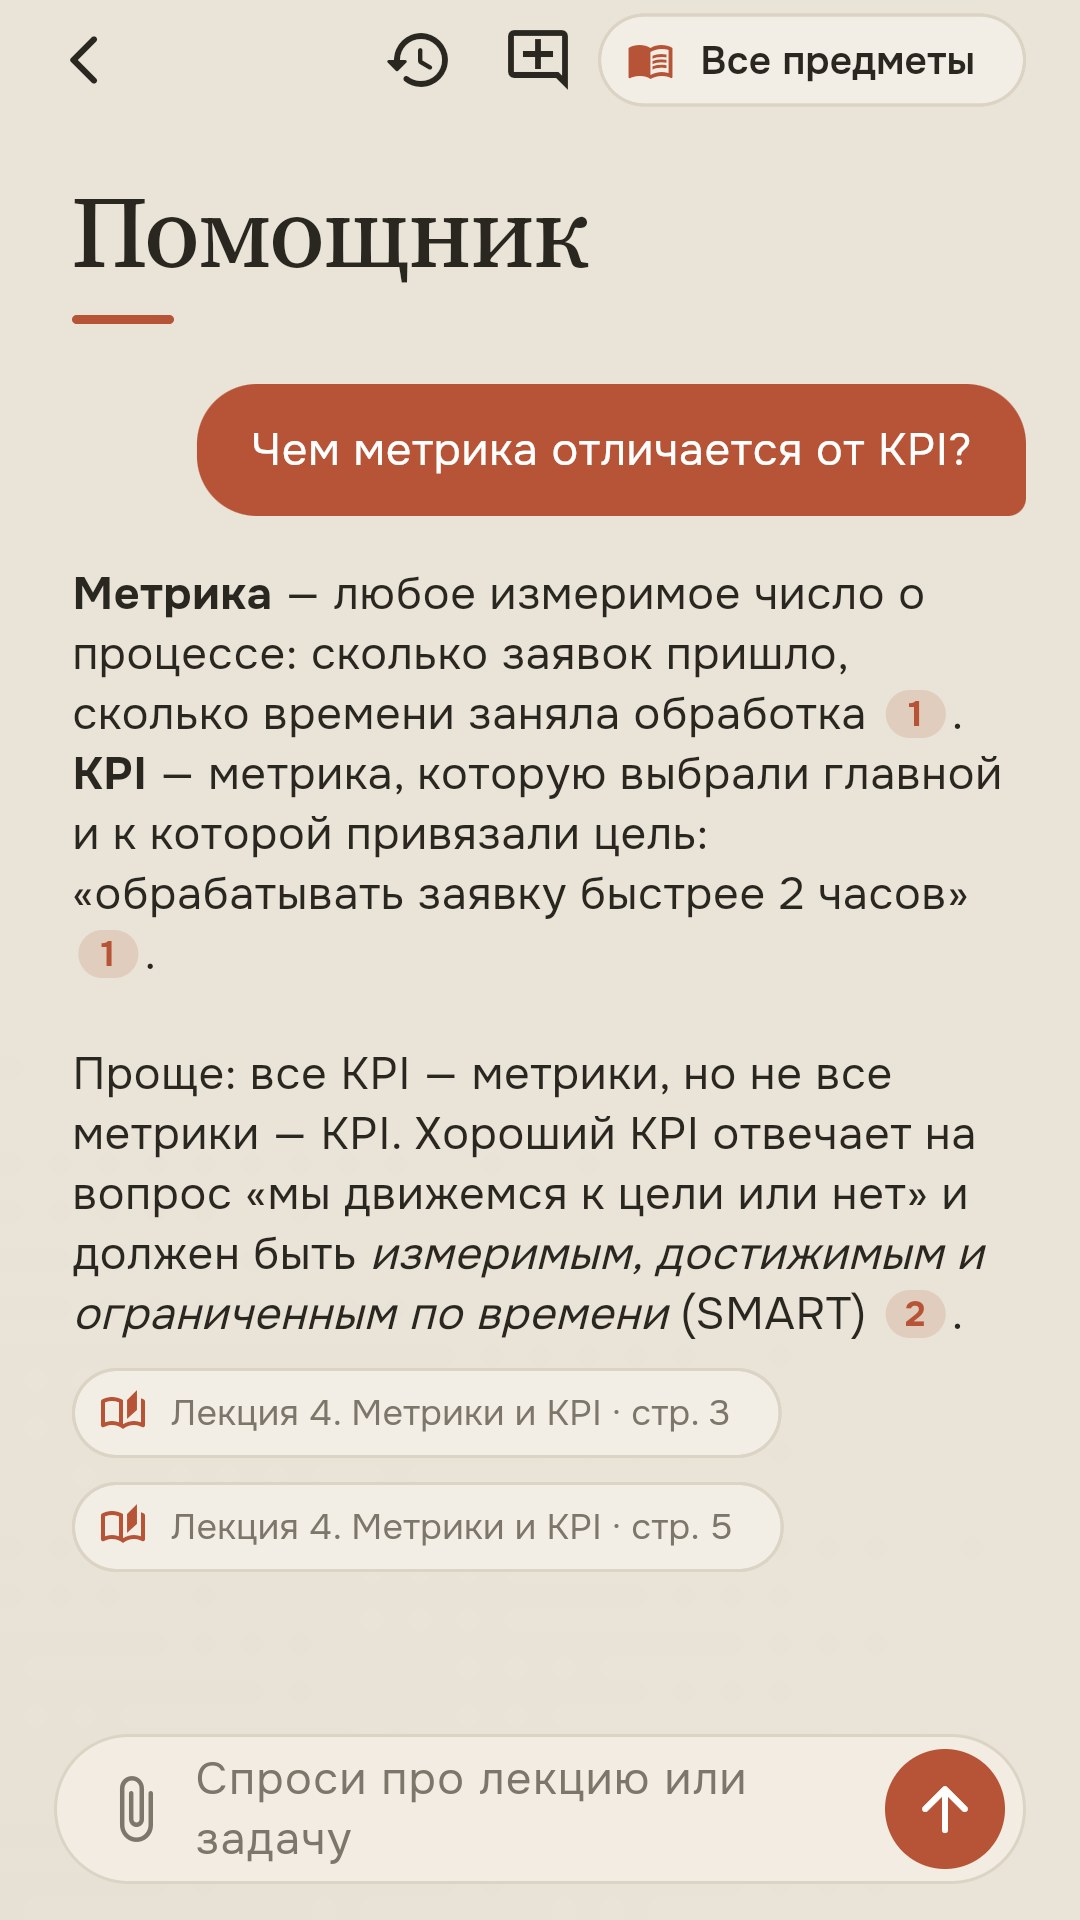
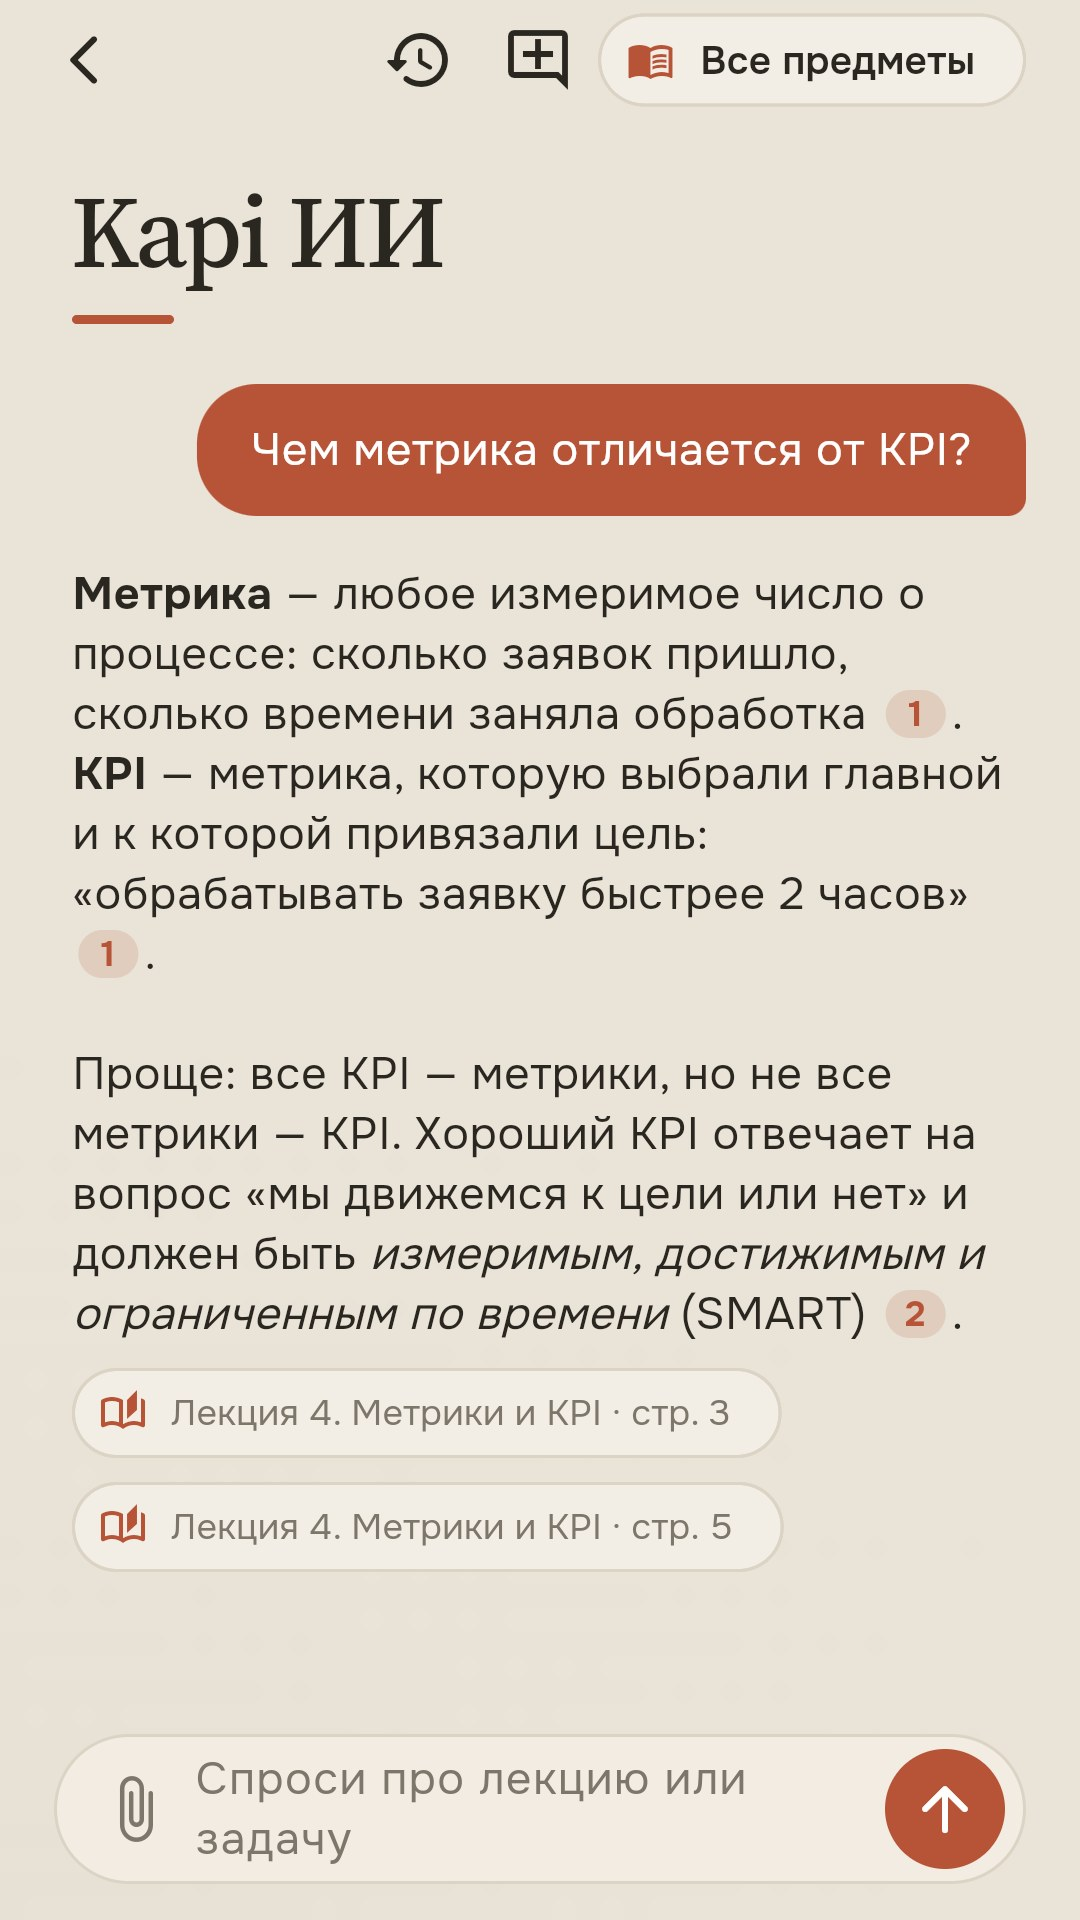
v5.114.8 «Дягилев»: скрины RuStore с «Kapi ИИ» и шаги консоли RuStore

Changed region(s): [[0.0917, 0.0938, 0.55, 0.1562]]

diff --git a/tools/changelog.py b/tools/changelog.py
@@ -38,6 +38,7 @@ OWNER_NAMES = ["Маркет-Гарден"]
 # Деятели Российской империи и СССР (владелец, 07.10: «названия ставь сам, но
 # чтобы хоть как-то соответствовали сделанному»): имя → под какую версию.
 FIGURES = {
+    "Дягилев": "Сергей Дягилев, импресарио «Русских сезонов», вывел русское искусство на мировую сцену: Капибара выходит на витрину RuStore — карточка и скрины с «Kapi ИИ»",
     "Марлинский": "Александр Бестужев, писатель, вошёл в литературу под новым именем Марлинский: помощник в приложении теперь зовётся «Kapi ИИ»",
     "Ухтомский": "Алексей Ухтомский, физиолог, учение о доминанте — внимание переключается на новый главный очаг: помощник перефокусируется при смене предмета и не тащит лекции к вопросам не по учёбе",
     "Бодуэн": "Иван Бодуэн де Куртенэ, языковед, переиздал словарь Даля, бережно выбирая из текста слово за словом: в помощнике сообщение копируется целиком или выделяется кусочком",

diff --git a/docs/store/rustore.md b/docs/store/rustore.md
@@ -3,11 +3,31 @@
 По порядку:
 
 1. Ключ подписи и подписанный APK — [android-key.md](android-key.md) (один раз).
-2. Аккаунт разработчика: https://console.rustore.ru → войти через VK ID → тип —
-   **физлицо** или **самозанятый** (как удобнее; данные — как в паспорте).
-   Подтверждение занимает от нескольких часов до пары дней.
-3. **Приложения** → **Создать приложение** → тип «Приложение» (не игра) →
-   загрузить APK → заполнить карточку ниже → **Отправить на модерацию**.
+2. Аккаунт разработчика: https://console.rustore.ru → войти через VK ID →
+   «Владелец». Аккаунт создаётся как **физлицо** — для бесплатного приложения
+   хватает (самозанятость и ИНН — только для продаж через RuStore, раздел
+   «Монетизация»). Так сделано 21.10.2026.
+3. **Добавить приложение** → «Универсальное», «Бесплатное» (навсегда), название в
+   консоли `Капибара` → **Загрузить → Версия** (не «Предзаказ») → APK →
+   шаги ниже → **Отправить на модерацию**.
+
+Шаги загрузки версии (консоль на 21.10.2026):
+
+- **Файлы**: APK + комментарий модератору — **не больше 180 знаков**:
+  `Вход: «Вход по коду доступа» внизу экрана входа, код <REVIEW_CODE> — демо-аккаунт с примером данных. Расписание есть и без входа. Покупок внутри нет.`
+  Нужна переменная `REVIEW_CODE` на сервере (`kap env`, от 12 знаков) — без
+  неё кнопки входа по коду нет.
+- **Технические сведения**: типы данных — ID устройства или другие
+  идентификаторы; Файлы и документы; Имя; ID пользователей; Другие данные;
+  Взаимодействие с приложением; Другой пользовательский контент; Другие
+  сообщения в приложениях; Фотографии. Значок «не нашли в манифесте» —
+  нормально (фото и файлы — через системное окно, без разрешения).
+  Обоснование `POST_NOTIFICATIONS`: `Уведомления по выбору пользователя:
+  расписание на день, напоминание перед парой, новые задания и баллы из СДО.
+  Включаются и выключаются в настройках приложения.` Интеграции — пусто.
+- **Информация**: карточка ниже. Теги — только из списка консоли: Календарь,
+  Личные помощники, Блокноты, Самосовершенствование, Часы, будильник и таймер.
+- **Медиафайлы**: иконка и скриншоты (раздел ниже).
 
 Пакет (`ru.uiboshki.app`) и подпись RuStore возьмёт из APK. Номер сборки растёт
 сам; для новой версии — снова Run workflow с версией больше прошлой
@@ -57,7 +77,7 @@
 • Баллы БРС по каждому предмету и сколько не хватает до «3», «4» или «5».
 • Цель по предмету: что ещё можно сдать и какие лекции важны.
 • Посещения лекций, файлы курсов по предметам и типам.
-• Помощник: отвечает по лекциям твоей группы и показывает, на каком слайде это написано. Конспект лекции — по кнопке.
+• Kapi ИИ — помощник, который отвечает по лекциям твоей группы и показывает, на каком слайде это написано. Конспект лекции — по кнопке.
 
 Ещё
 • Уведомления: утреннее расписание, напоминание перед парой, новые задания и баллы.
@@ -78,8 +98,7 @@
 Первая версия Капибары в RuStore: расписание, сроки из СДО, баллы БРС, помощник по лекциям, уведомления и виджет на рабочий стол.
 ```
 
-**Ключевые слова / теги** (если консоль спрашивает):
-`мирэа, расписание, сдо, дедлайны, брс, баллы, лекции, студент, рту, пары, зачёт, экзамен`
+**Теги** — консоль даёт только свой список (до 5), см. шаги выше.
 
 ## Скриншоты
 
@@ -112,5 +131,8 @@
 
 ## Разрешения в APK
 
-Только интернет (`INTERNET`) — сборка показывает список в Summary запуска.
+Сборка показывает список в Summary запуска. Сейчас (1.0.0): `INTERNET`,
+`ACCESS_NETWORK_STATE`, `WAKE_LOCK`, `POST_NOTIFICATIONS` и приём пушей
+(`c2dm.permission.RECEIVE`) — от уведомлений; из них RuStore считает
+чувствительным только `POST_NOTIFICATIONS` (обоснование — выше).
 Фото и файлы выбираются системным окном, без доступа ко всей галерее.

diff --git a/docs/dela-nikity.md b/docs/dela-nikity.md
@@ -19,11 +19,11 @@
 
 Всё с нашей стороны готово: сборка, тексты, скриншоты — `docs/store/rustore.md`.
 
-- [ ] Ключ подписи Android на своём компьютере и три секрета в GitHub —
+- [x] Ключ подписи Android на своём компьютере и три секрета в GitHub —
       пошагово в `docs/store/android-key.md`. Ключ хранить в двух местах:
       потеряешь — обновления в RuStore не выпустить.
 - [ ] Аккаунт разработчика RuStore, карточка приложения по `docs/store/rustore.md`.
-- [ ] GitHub → Actions → сборка приложения → Run workflow → скачать APK →
+- [x] GitHub → Actions → сборка приложения → Run workflow → скачать APK →
       потыкать на телефоне → загрузить в RuStore.
 
 ## 2. App Store

diff --git a/changelog.d/5.114.8.md b/changelog.d/5.114.8.md
@@ -1,0 +1,8 @@
+### v5.114.8 «Дягилев»
+- RuStore: пересняты скриншоты — помощник на них теперь «Kapi ИИ»; в описании
+  карточки тоже «Kapi ИИ».
+- `docs/store/rustore.md` — по живой консоли 21.10: аккаунт физлица, шаги
+  загрузки версии, комментарий модератору до 180 знаков с кодом `REVIEW_CODE`,
+  типы данных, обоснование уведомлений, теги из списка консоли, нынешние
+  разрешения APK.
+- `docs/dela-nikity.md`: ключ подписи и подписанная сборка — сделаны.
